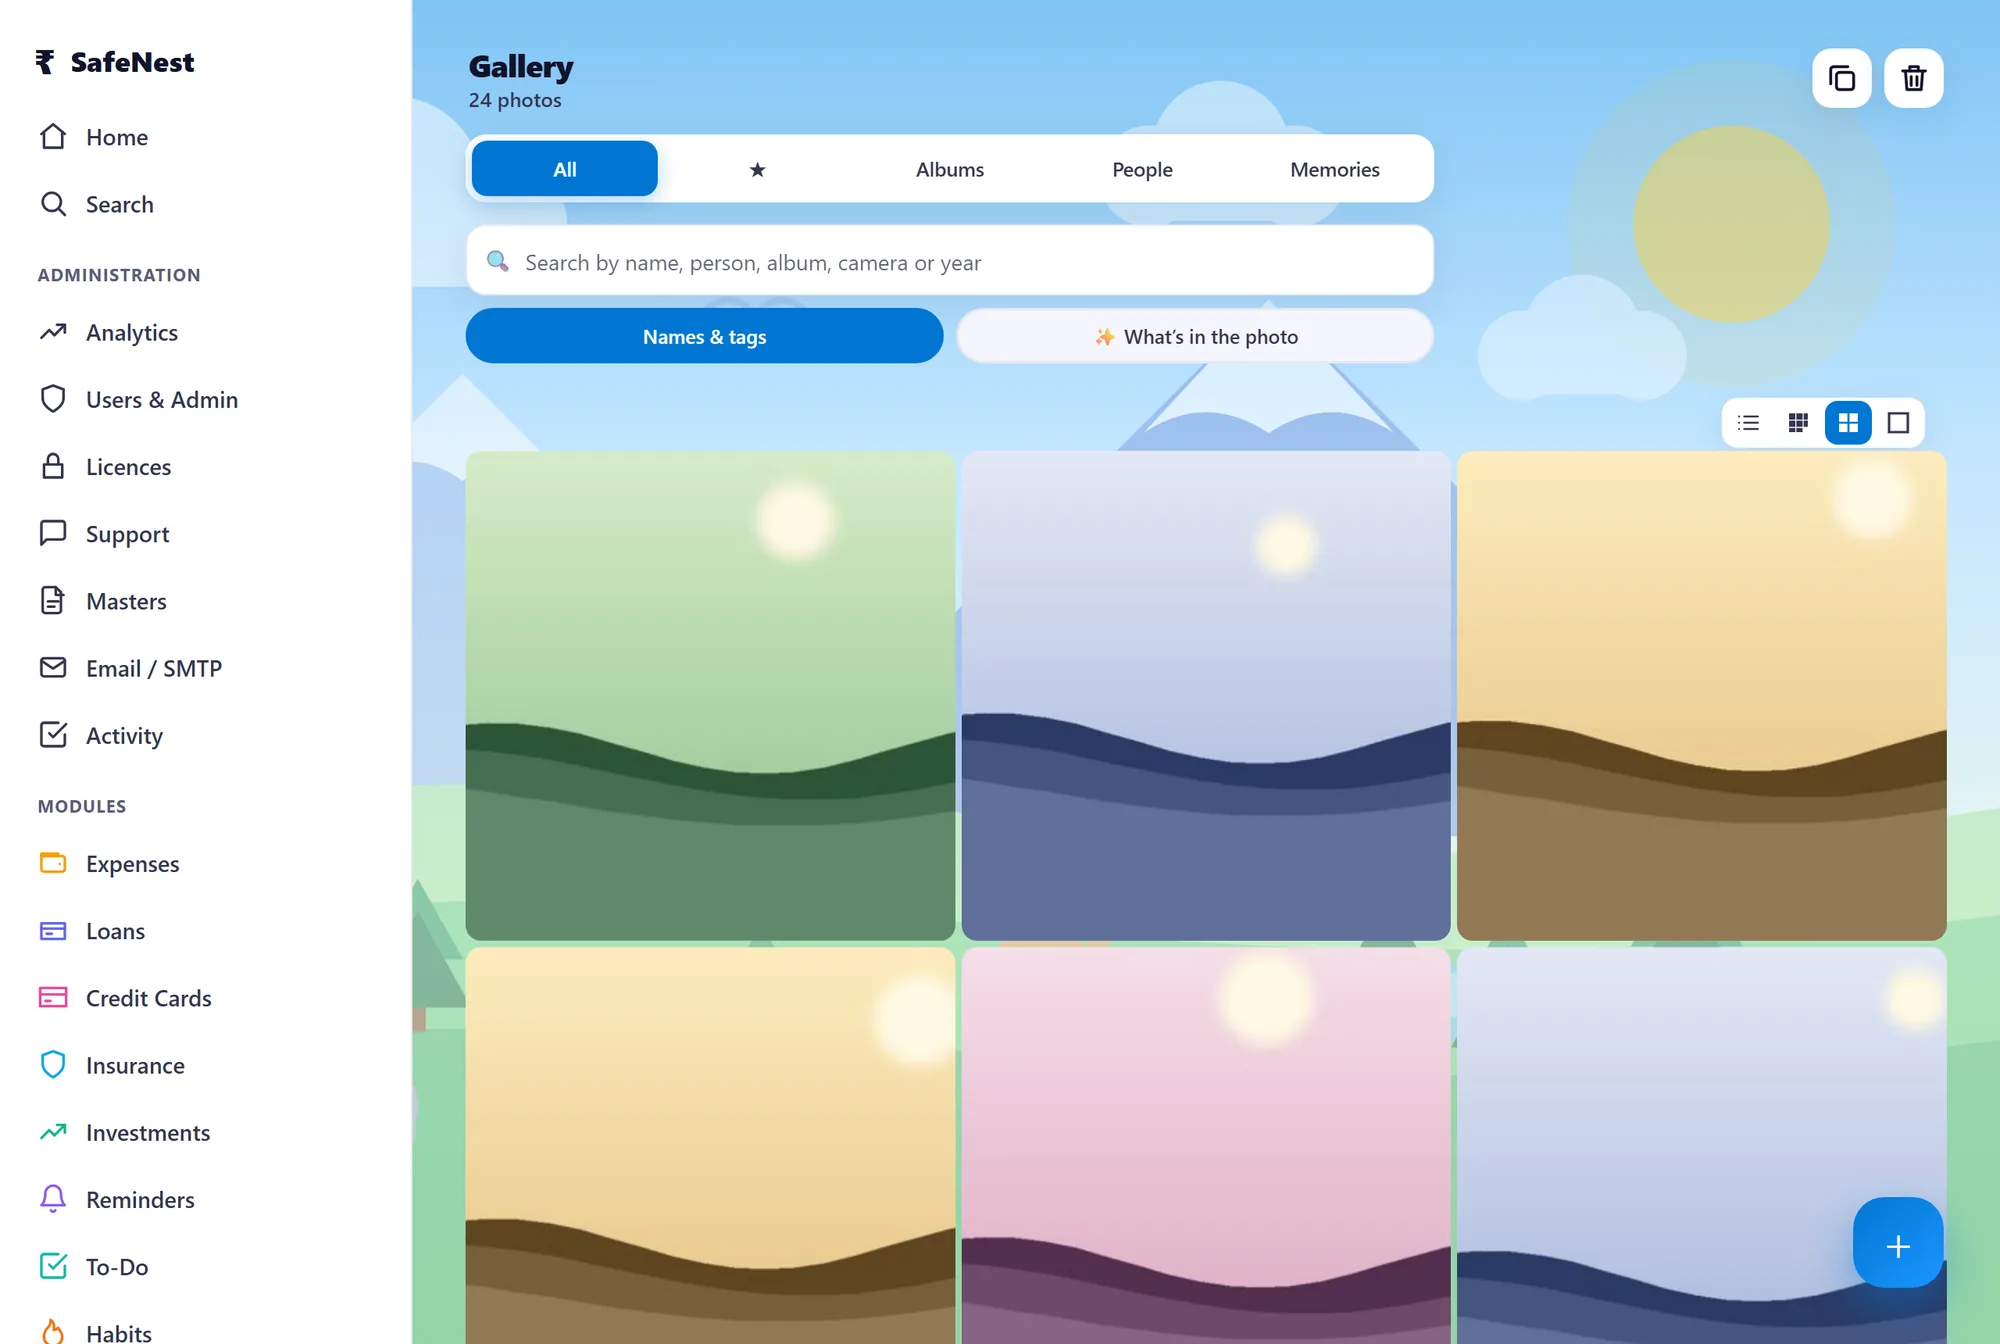
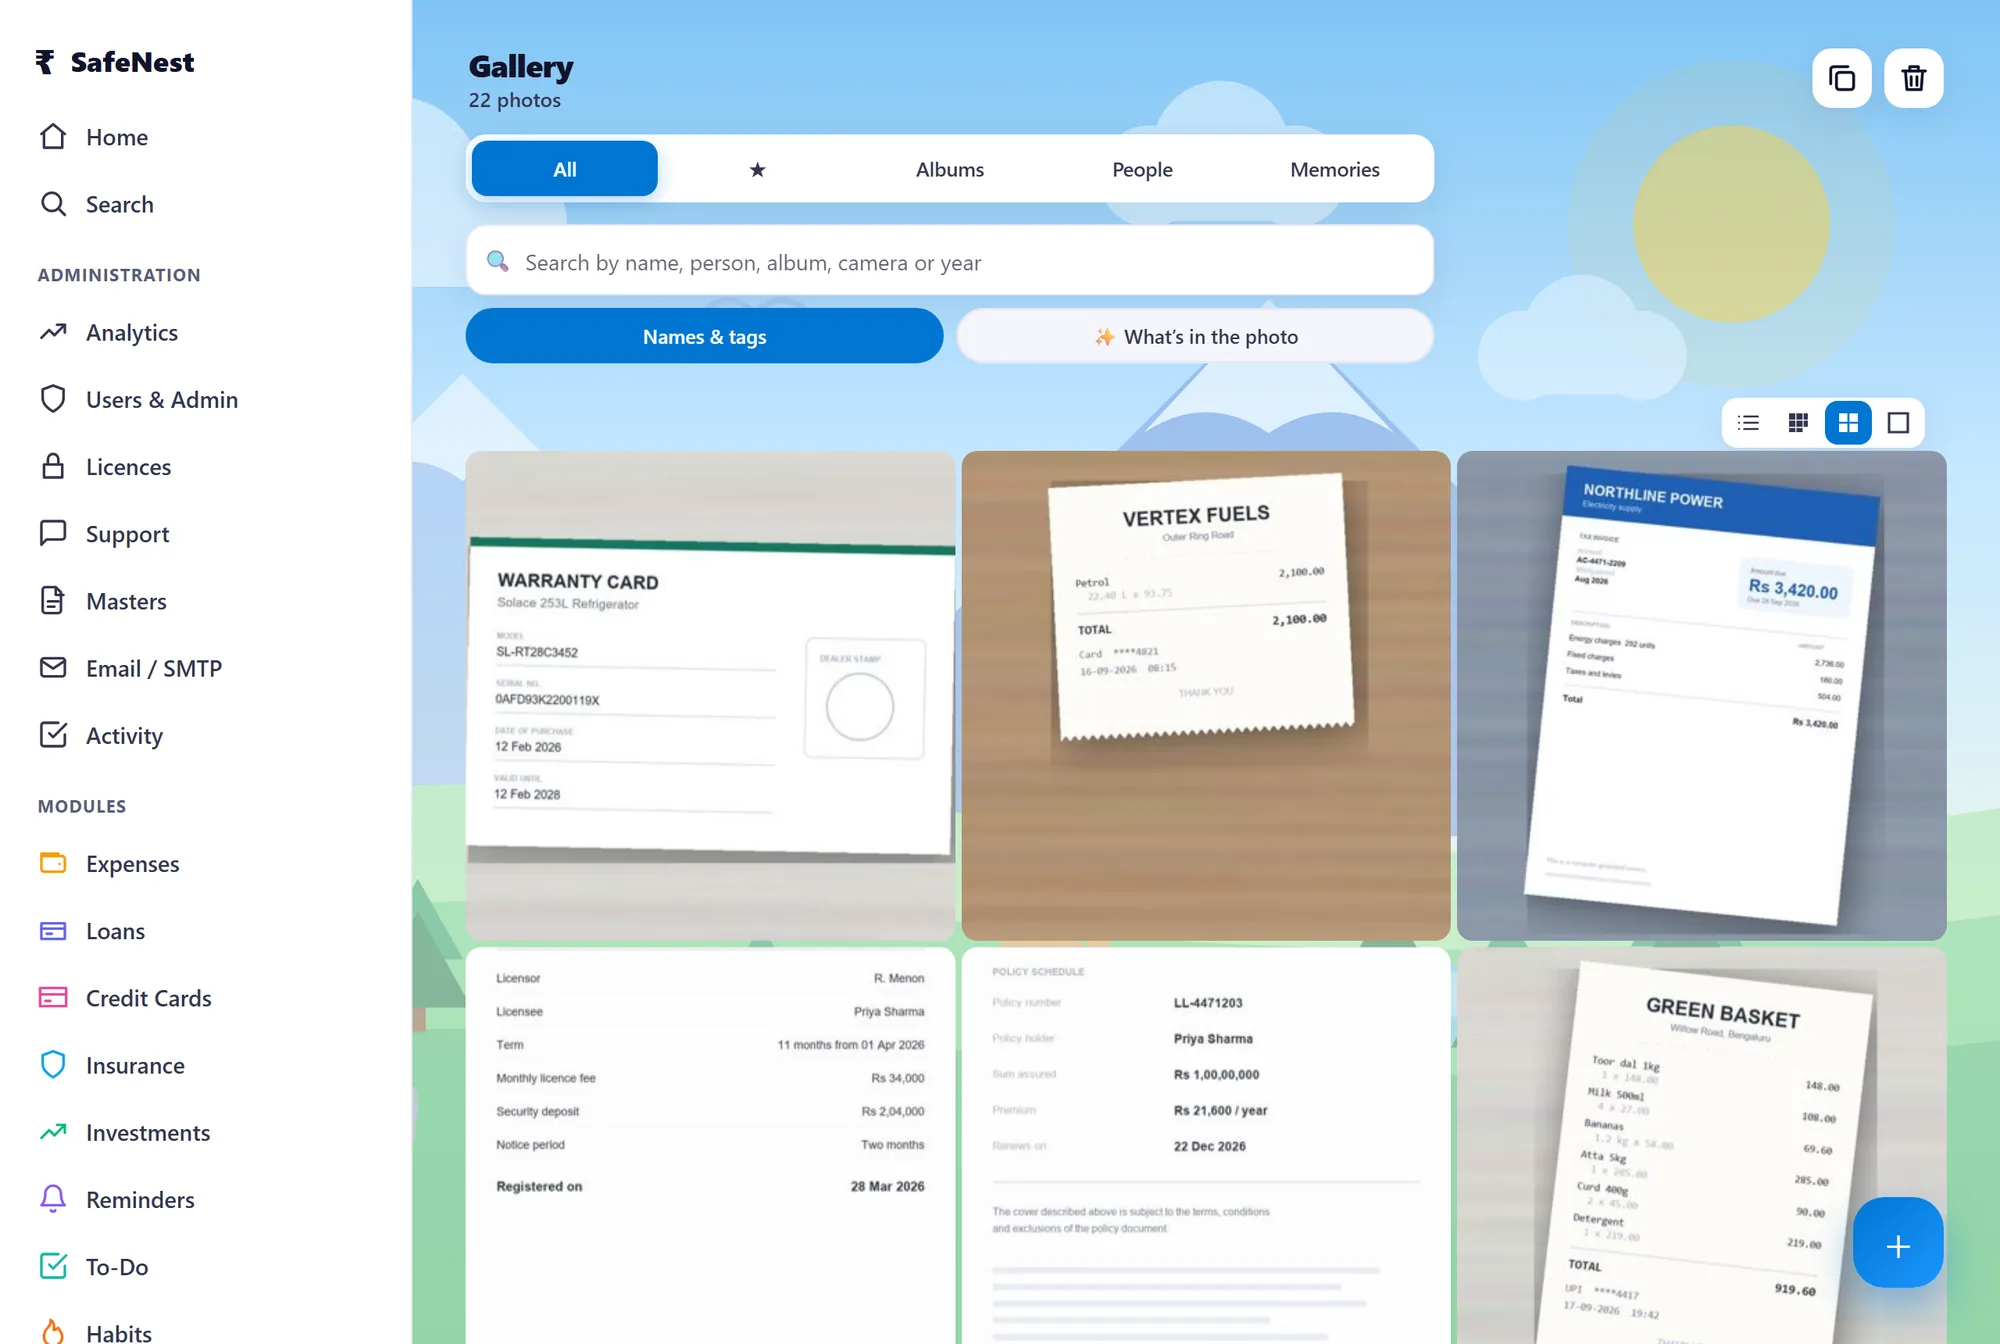
Re-shoot the product screenshots; the old ones were empty states
The screenshots were the weakest thing on the page and several were not
screenshots of a working product at all:

  * the VAULT shot was the vault's own EMPTY STATE -- "No vault yet, 0 items".
  * DOCUMENTS showed grey placeholder bars, so it read as a loading skeleton.
  * the GALLERY was filled with soft landscape gradients -- a sky, a sun, two
    hills -- which at thumbnail size is a coloured rectangle rather than a
    photograph, and which contradicted the copy beside it promising bills,
    receipts and warranty cards.
  * EXPENSES said "Income Rs 0" and stacked a whole month under "Today".
  * INVESTMENTS said "invested Rs 0" and "+0.0%" beside a current value, and
    every holding and policy was typed "Other".

Four of those were the seeder posting field names the API does not have, which
fails silently because the columns have defaults: `date` instead of `txn_date`
(so every expense fell back to today), `invested`/`type`/`platform` instead of
`invested_amount`/`invest_type`/`broker`, and `type` instead of `policy_type`.
The vault and income were simply never seeded.

The gallery is now what this product is actually for: a household's paperwork,
photographed on a table or scanned flat -- receipts, utility bills, warranty
cards, policy schedules, a salary slip, a rent agreement -- rendered with real
type through paperwork.py rather than suggested with grey bars. Every company,
account number and person in them is invented; the previous set used real ones,
[…]

diff --git a/backend/storefront/index-nova.html b/backend/storefront/index-nova.html
@@ -545,7 +545,7 @@ footer .brand-word i{color:#79b0f7}
     </div>
     <div class="reveal">
       <div class="shot">
-        <img src="/storefront-img/gallery.webp" alt="The SafeNest photo library" width="1200" height="760" loading="lazy" />
+        <img src="/storefront-img/gallery.webp?v=2" alt="The SafeNest photo library" width="1200" height="760" loading="lazy" />
       </div>
     </div>
   </div>
@@ -569,7 +569,7 @@ footer .brand-word i{color:#79b0f7}
     </div>
     <div class="reveal">
       <div class="shot">
-        <img src="/storefront-img/documents.webp" alt="The SafeNest document cabinet" width="1200" height="760" loading="lazy" />
+        <img src="/storefront-img/documents.webp?v=2" alt="The SafeNest document cabinet" width="1200" height="760" loading="lazy" />
       </div>
     </div>
   </div>
@@ -592,7 +592,7 @@ footer .brand-word i{color:#79b0f7}
     </div>
     <div class="reveal">
       <div class="shot">
-        <img src="/storefront-img/expenses.webp" alt="The SafeNest expense ledger" width="1200" height="760" loading="lazy" />
+        <img src="/storefront-img/expenses.webp?v=2" alt="The SafeNest expense ledger" width="1200" height="760" loading="lazy" />
       </div>
     </div>
   </div>
@@ -857,6 +857,6 @@ footer .brand-word i{color:#79b0f7}
   </div>
 </footer>
 
-<script src="/storefront.js?v=5.0-nova"></script>
+<script src="/storefront.js?v=5.1-shots"></script>
 </body>
 </html>

diff --git a/backend/storefront/index.html b/backend/storefront/index.html
@@ -545,7 +545,7 @@ footer .brand-word i{color:#79b0f7}
     </div>
     <div class="reveal">
       <div class="shot">
-        <img src="/storefront-img/gallery.webp" alt="The SafeNest photo library" width="1200" height="760" loading="lazy" />
+        <img src="/storefront-img/gallery.webp?v=2" alt="The SafeNest photo library" width="1200" height="760" loading="lazy" />
       </div>
     </div>
   </div>
@@ -569,7 +569,7 @@ footer .brand-word i{color:#79b0f7}
     </div>
     <div class="reveal">
       <div class="shot">
-        <img src="/storefront-img/documents.webp" alt="The SafeNest document cabinet" width="1200" height="760" loading="lazy" />
+        <img src="/storefront-img/documents.webp?v=2" alt="The SafeNest document cabinet" width="1200" height="760" loading="lazy" />
       </div>
     </div>
   </div>
@@ -592,7 +592,7 @@ footer .brand-word i{color:#79b0f7}
     </div>
     <div class="reveal">
       <div class="shot">
-        <img src="/storefront-img/expenses.webp" alt="The SafeNest expense ledger" width="1200" height="760" loading="lazy" />
+        <img src="/storefront-img/expenses.webp?v=2" alt="The SafeNest expense ledger" width="1200" height="760" loading="lazy" />
       </div>
     </div>
   </div>
@@ -857,6 +857,6 @@ footer .brand-word i{color:#79b0f7}
   </div>
 </footer>
 
-<script src="/storefront.js?v=5.0-nova"></script>
+<script src="/storefront.js?v=5.1-shots"></script>
 </body>
 </html>

diff --git a/backend/storefront/storefront.js b/backend/storefront/storefront.js
@@ -153,7 +153,7 @@ if (tabs && stage) {
 
   const show = (i) => {
     const [label, file, alt] = SCREENS[i];
-    img.src = `/storefront-img/${file}.webp`;
+    img.src = `/storefront-img/${file}.webp?v=2`;
     img.alt = `${label} — ${alt}`;
     btns.forEach((x, n) => x.classList.toggle('on', n === i));
   };
@@ -166,7 +166,7 @@ if (tabs && stage) {
   // Fetch on hover so the swap feels instant when the click lands.
   tabs.addEventListener('pointerover', (e) => {
     const b = e.target.closest('.shot-tab');
-    if (b) new Image().src = `/storefront-img/${SCREENS[+b.dataset.i][1]}.webp`;
+    if (b) new Image().src = `/storefront-img/${SCREENS[+b.dataset.i][1]}.webp?v=2`;
   });
 }
 
